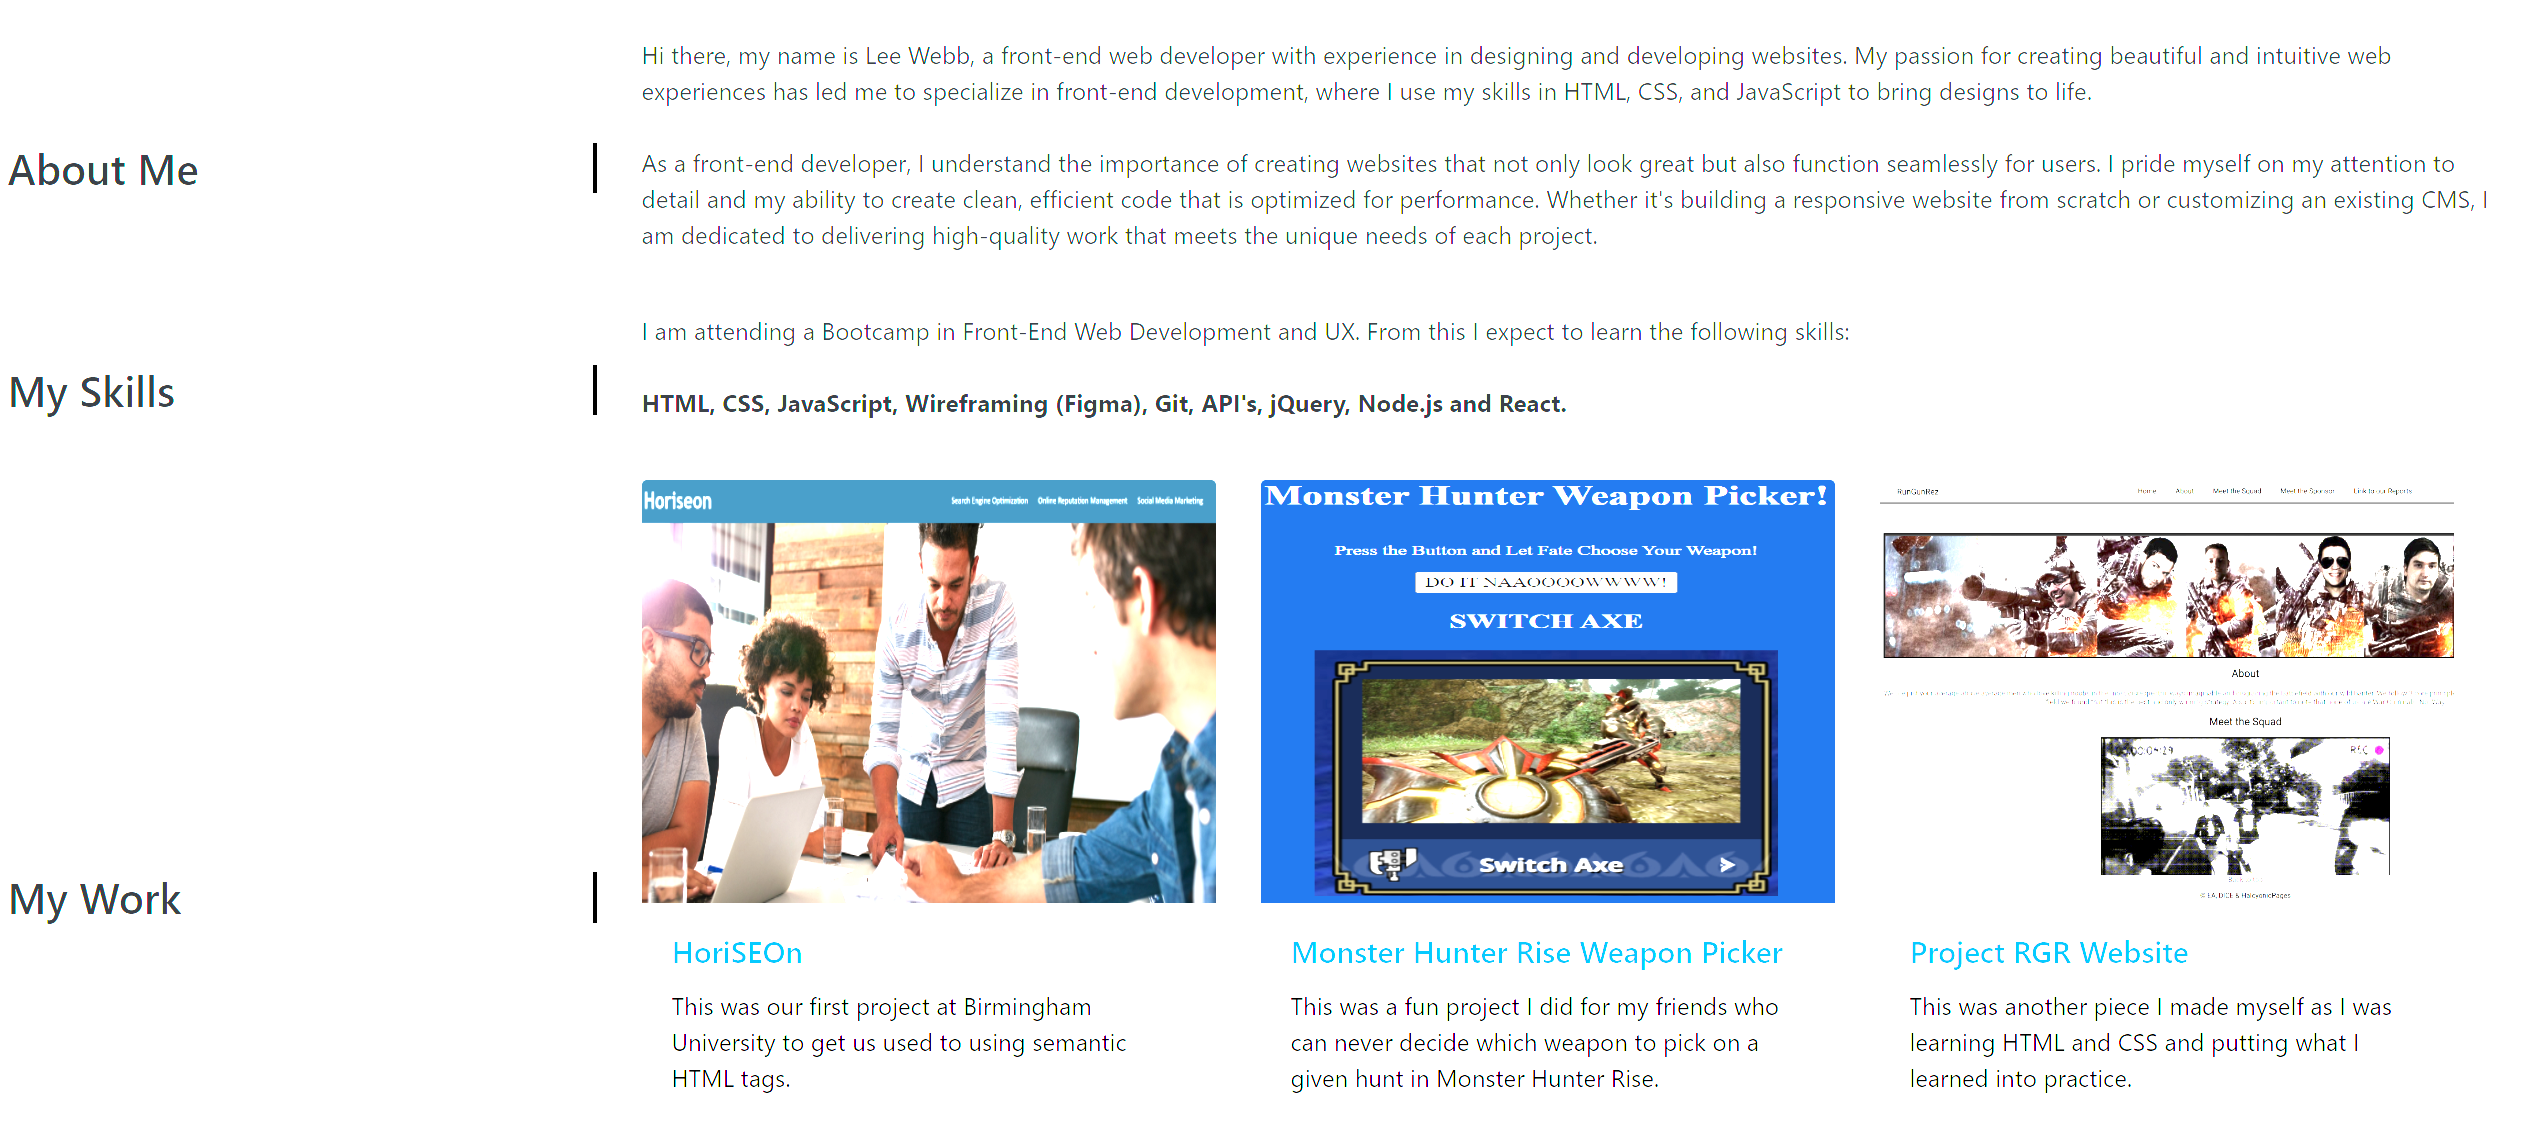
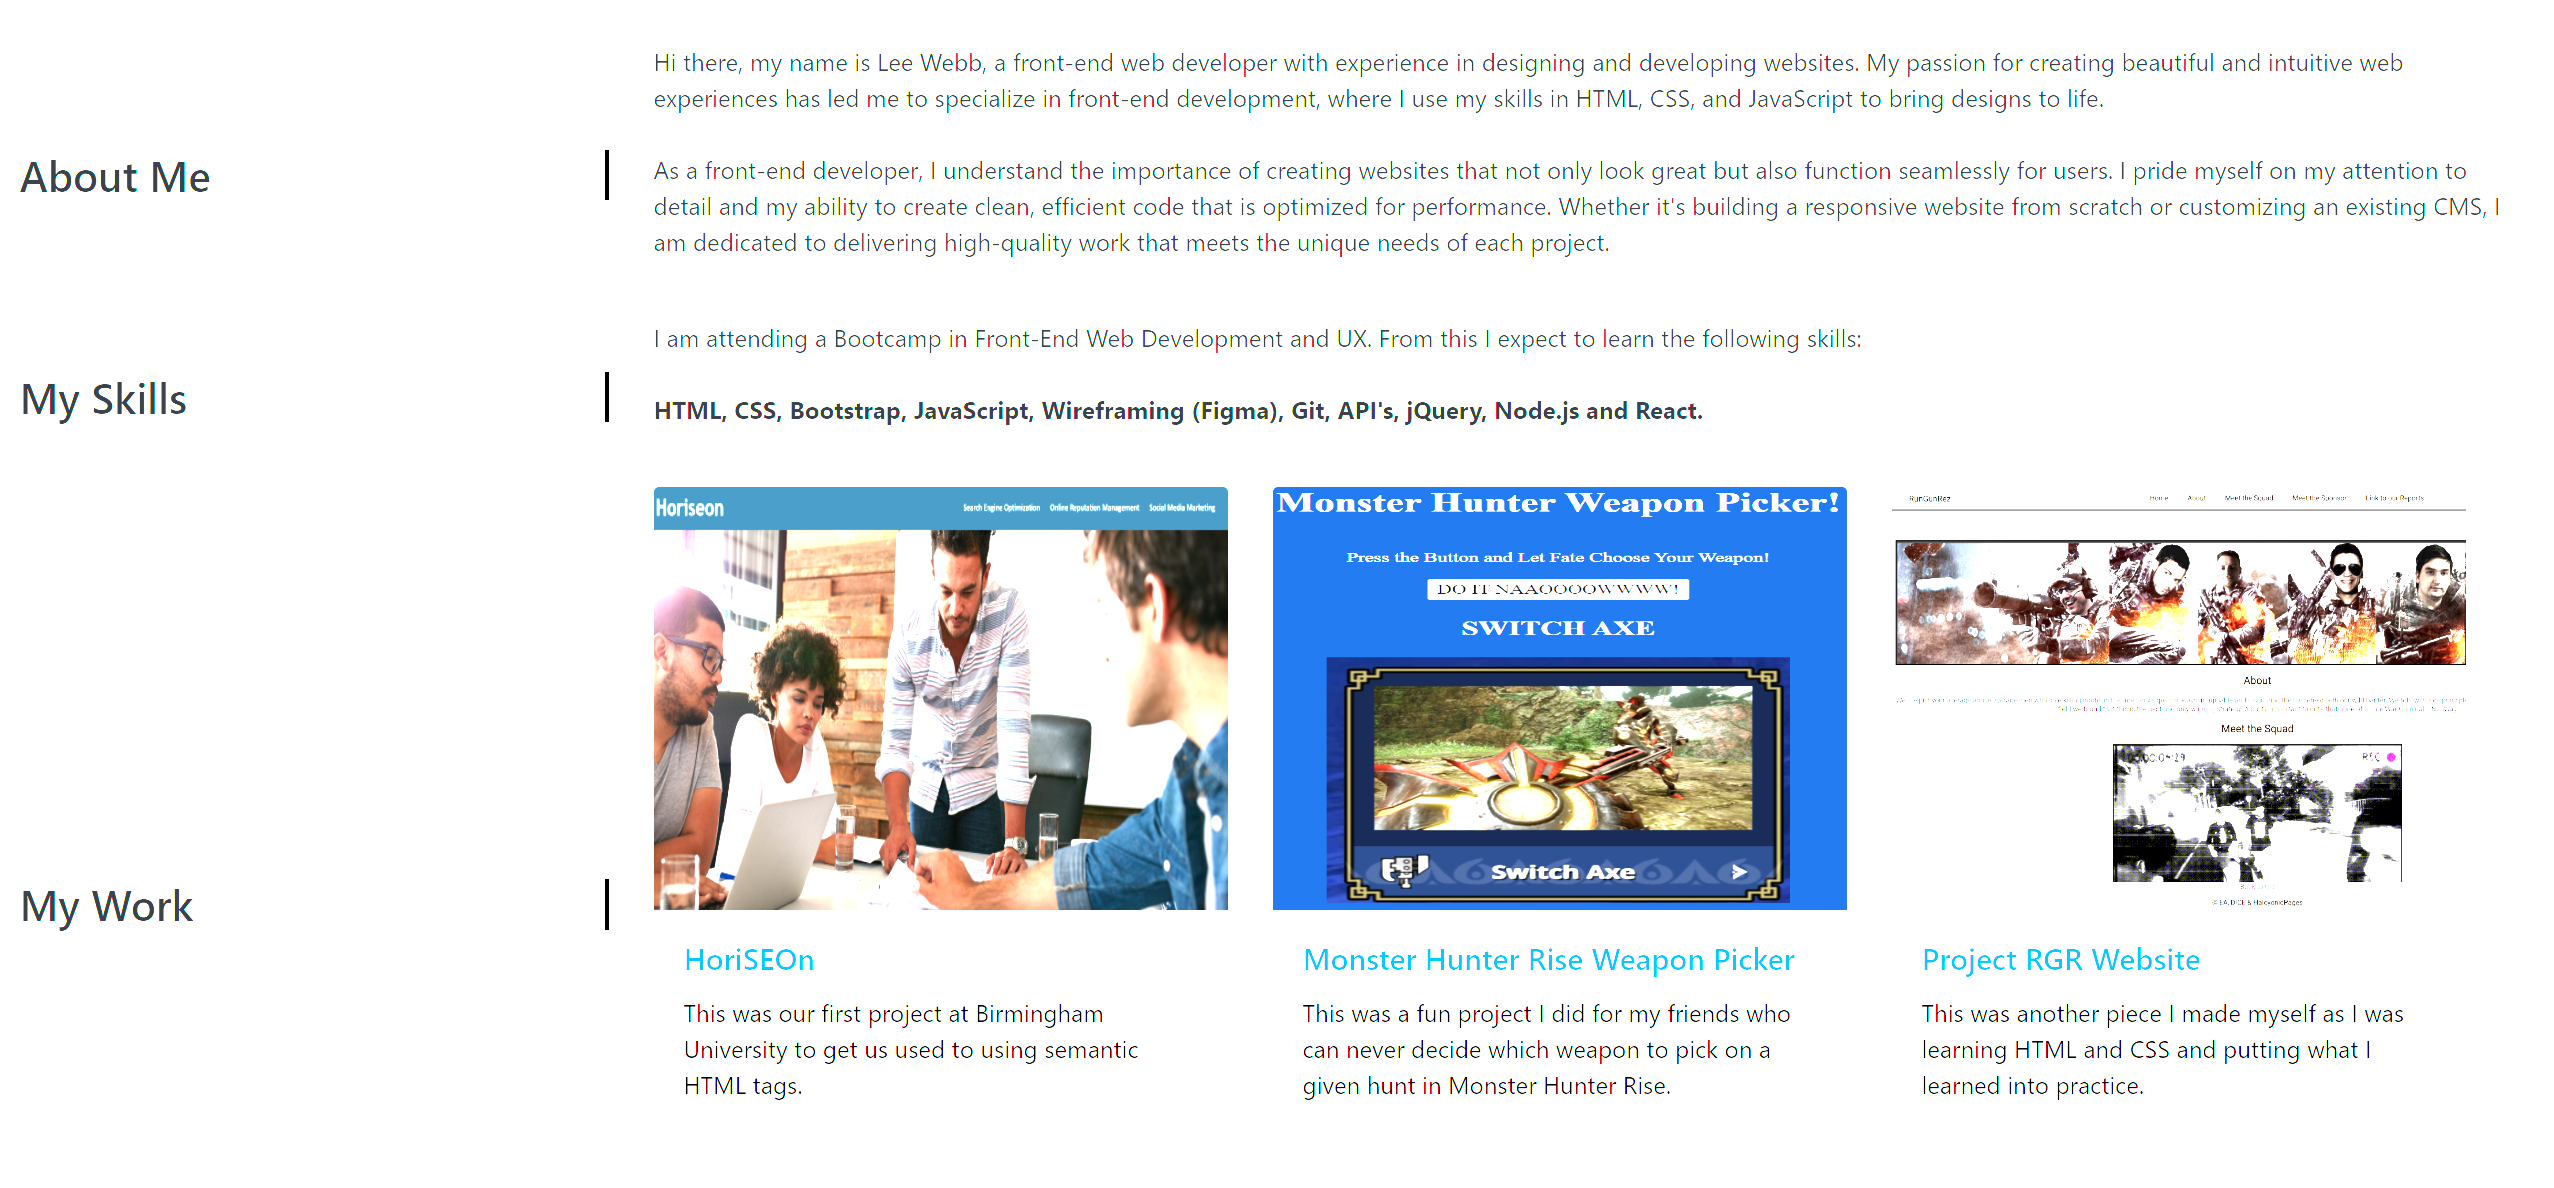
Added Bootstrap to skills, updated ReadMe

diff --git a/index.html b/index.html
@@ -80,7 +80,7 @@
               </div>
               <div class="col-sm-9"><p> I am attending a Bootcamp in Front-End Web Development and UX. From this I expect to learn the following skills:
                 <br> <br>
-              <strong>HTML, CSS, JavaScript, Wireframing (Figma), Git, API's, jQuery, Node.js and React.</strong></p>
+              <strong>HTML, CSS, Bootstrap, JavaScript, Wireframing (Figma), Git, API's, jQuery, Node.js and React.</strong></p>
               <br>
               </div> 
             </div>

diff --git a/README.md b/README.md
@@ -1,1 +1,35 @@
 # Module-3-Challenge-Bootstrap-Portfolio
+
+# Creating a Boostrap Portfolio Challenge
+
+## Description
+
+I was tasked with recreating the portfolio from the Module 2 Challenge in Bootstrap, which is far more attractive and a better vehicle to showcase my skills and talents to employers looking to fill full or part-time positons. My portfolio will eventually showcase my strongest work and my though processes behind it. This time I have elected to showcase some of the very minor projects I have done myself as opposed to use the stock ones provided.
+
+I keep in mind that students who have portfolios with deployed web applications (meaning they are live on the web) are typically very successful in their career search after this boot camp. Having several deployed projects is a minimum requirement to receive an initial interview at many companies.
+
+## Installation
+Please visit this URL to see how the website looks now: https://halcyonlegion.github.io/Module-3-Challenge-Bootstrap-Portfolio/
+
+## Usage
+
+Along the top of the page is my name along with 4 links which go to the named locations on the page. My icon the Halcyonic Bird features in the top right once more. I have also included a fully linked up Navigate button which links to the page.
+
+![header](assets/images/readmeTop.png)
+
+The main section contains the About Me, My Skills, My Work and Contact Me areas all of which are linked up. I have included some of my own work this time as well as the Module 1 Challenge. All of these are linked to live pages on my GitHub.
+
+![body](assets/images/readmeMid.png)
+
+The Contact Me section has links to Birmingham University, Github and Twitter, as well as my icon which will allow you to email my business email address.
+
+![contact](assets/images/readmeBottom.png)
+
+## Credits
+
+Roger Le the Instructor for this Bootcamp who has provided a lot of instruction and guidance on the journey so far. This was my first look at Bootstrap and I'm glad it was everything and more.
+
+The University of Birmingham provided the materials and guides I used to get this started: https://www.birmingham.ac.uk/index.aspx
+
+License
+There is no license specified for this project.
